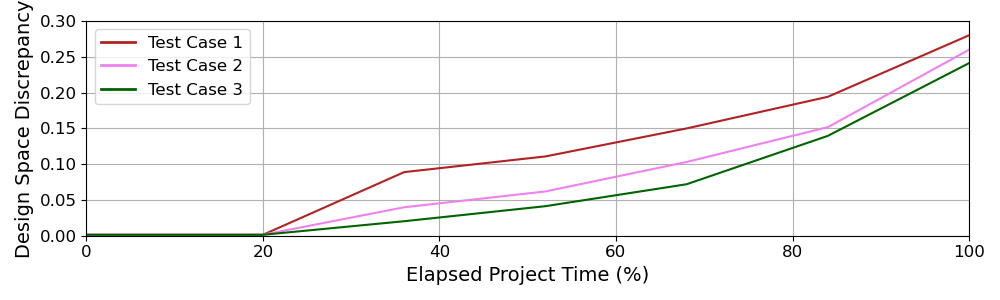
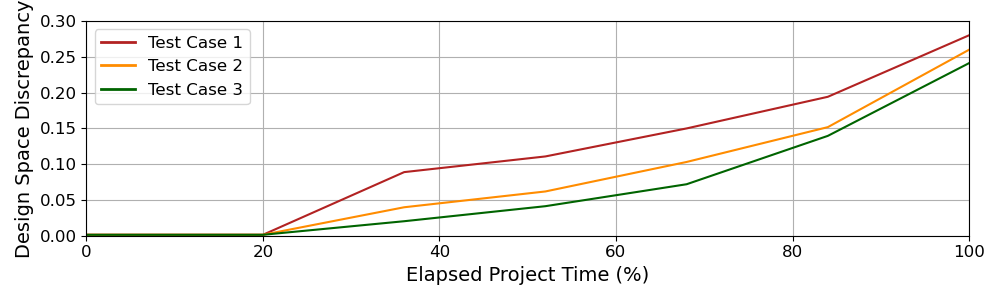
Finalized plotting graphs

diff --git a/Python Code/Simulation_Results_050_DTC1/plot_data.py b/Python Code/Simulation_Results_050_DTC1/plot_data.py
@@ -115,7 +115,7 @@ def plotDisciplines(all_disciplines_data, feas1_disciplines_data,
     """
     
     # Initialize colors, line styles, and markers
-    colors = ['firebrick', 'violet', 'darkgreen']
+    colors = ['firebrick', 'darkorange', 'darkgreen']
     # line_styles = ['-', '--', ':', '-.', 'None', 'None']
     line_styles = ['-', '--', ':']
     # markers = ['', '', '', '', '*', '+']
@@ -414,7 +414,7 @@ plotDisciplines(all_disciplines_data, feas1_disciplines_data,
 
 # Create diversity plots for each discipline
 plotDiversity(diversity_data, 'Discrepancy', '-', 
-              ['firebrick', 'violet', 'darkgreen'])
+              ['firebrick', 'darkorange', 'darkgreen'])
 
 # Create Heat Map Plot of Test Case 3 for each discipline
 # plotHeatmaps(Test_Case_3, 0, Discips[0]['ins'])

diff --git a/Python Code/Simulation_Results_200_DTC1/plot_data.py b/Python Code/Simulation_Results_200_DTC1/plot_data.py
@@ -115,7 +115,7 @@ def plotDisciplines(all_disciplines_data, feas1_disciplines_data,
     """
     
     # Initialize colors, line styles, and markers
-    colors = ['firebrick', 'violet', 'darkgreen']
+    colors = ['firebrick', 'darkorange', 'darkgreen']
     # line_styles = ['-', '--', ':', '-.', 'None', 'None']
     line_styles = ['-', '--', ':']
     # markers = ['', '', '', '', '*', '+']
@@ -414,7 +414,7 @@ plotDisciplines(all_disciplines_data, feas1_disciplines_data,
 
 # Create diversity plots for each discipline
 plotDiversity(diversity_data, 'Discrepancy', '-', 
-              ['firebrick', 'violet', 'darkgreen'])
+              ['firebrick', 'darkorange', 'darkgreen'])
 
 # Create Heat Map Plot of Test Case 3 for each discipline
 # plotHeatmaps(Test_Case_3, 0, Discips[0]['ins'])
